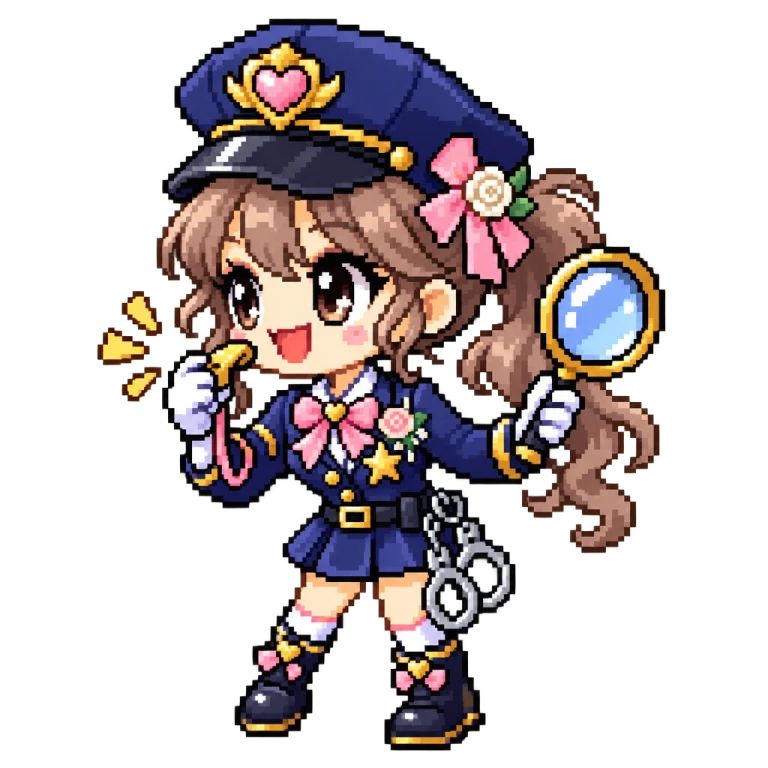
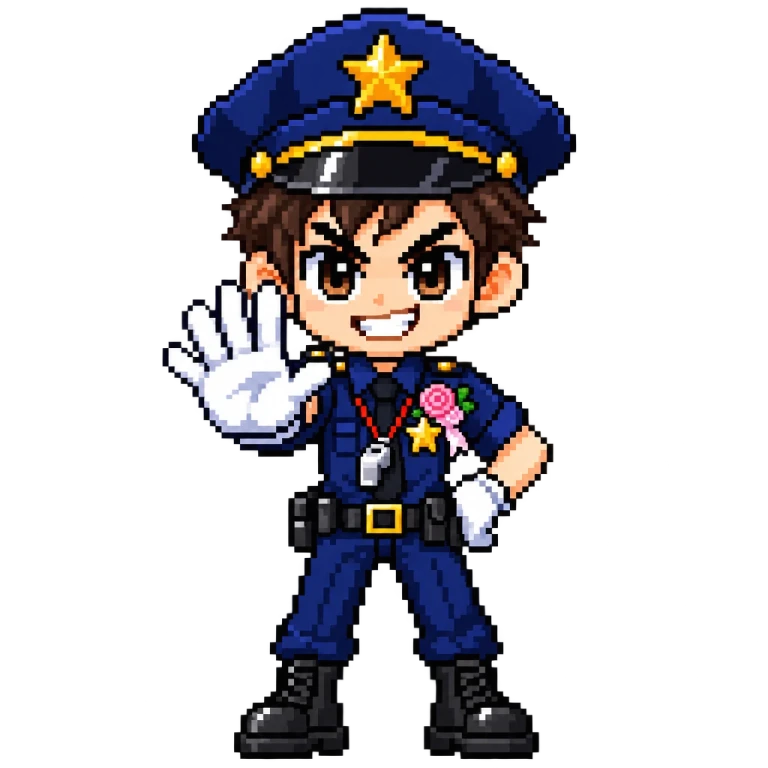
도둑 잡기 경찰관 이미지를 정면 남자 경찰관으로 다시 생성

diff --git a/CLAUDE.md b/CLAUDE.md
@@ -201,7 +201,7 @@ prompt/                 캐릭터/걷기 스프라이트 생성용 프롬프트 
 - 설정: 기록 gist = https://gist.github.com/kobe-KANG/54d5f2cf56f9e6eb09864d4c3e4ae684 (비밀 gist, api/rps.js 기본값 — 바꾸려면 Vercel `RPS_GIST_ID`). 첫 기록 때 그 gist에 `rps.json` 파일이 생김. 쓰기 토큰은 `GIST_TOKEN`(Gists 읽기/쓰기 권한), 없으면 `GITHUB_TOKEN`. 기록 정리·쿠폰 대상 확인은 gist에서 직접.
 
 ## 이벤트 NPC: 도둑 잡기 (`chase-police`)
-- js/npcs.js `event: 'chase'` → 누르면 `Chase.open()`(개발자 모드면 관리 칸 + "NPC 설정"). 가위바위보 머신 옆 선착장(`f4`, x 420) 고정, 이미지는 gen-npc.mjs `chase-police`(경찰관, 움직임 없음).
+- js/npcs.js `event: 'chase'` → 누르면 `Chase.open()`(개발자 모드면 관리 칸 + "NPC 설정"). 가위바위보 머신 옆 선착장(`f4`, x 420) 고정, 이미지는 gen-npc.mjs `chase-police`(남자 경찰관 정면, "STOP" 손짓, 움직임 없음).
 - 도전: 내 캐릭터 비밀번호 → `POST /api/chase {action:'start'}` → 토큰 + countdown(3초) → 창이 닫히고 플레이 모드 + 3·2·1 "도망쳐!" → 추격. 위쪽 가운데 타이머 HUD(`.chase-hud`) + 그만하기.
 - 추격자: 신랑·신부(`CONFIG.chase.coupleSpeed` 2배) + 나를 뺀 하객 무작위 `guests`명(`guestSpeed` 1.5배). 속도 = 조종 걷기 속도 배율(사다리 오르는 속도는 그대로). 내 캐릭터에서 `minStartDist` 이상 떨어진 발판에서 시작.
   - `GuestCharacter.startChase(input, speed)`: 조종 물리(`tickControlled(delta, input, speed)`)에 AI 입력을 넣음 → 점프·사다리·로프·엎드려 내려가기를 플레이어와 똑같이 씀. `stopChase`로 원래대로(신랑·신부는 제자리).
